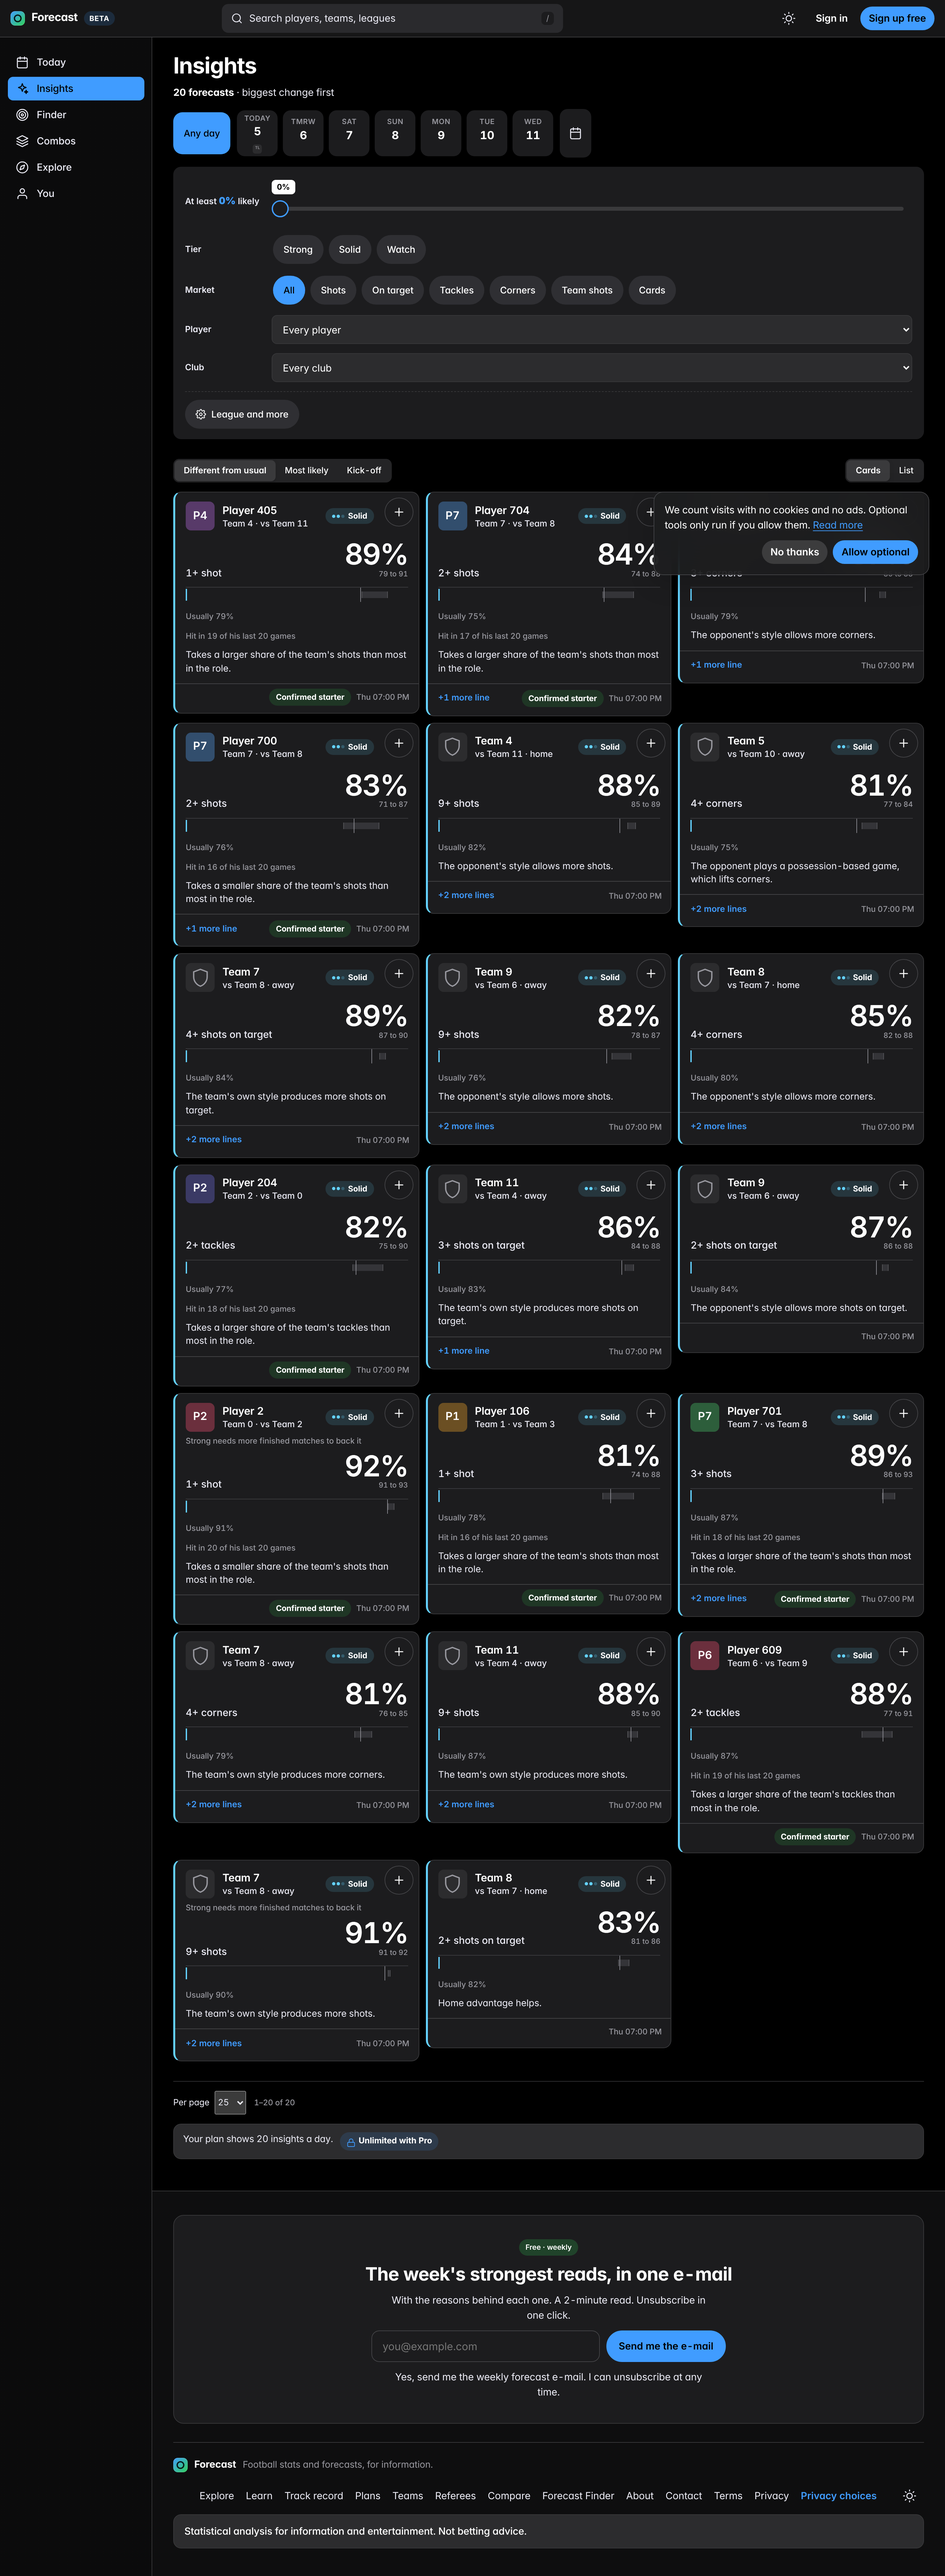
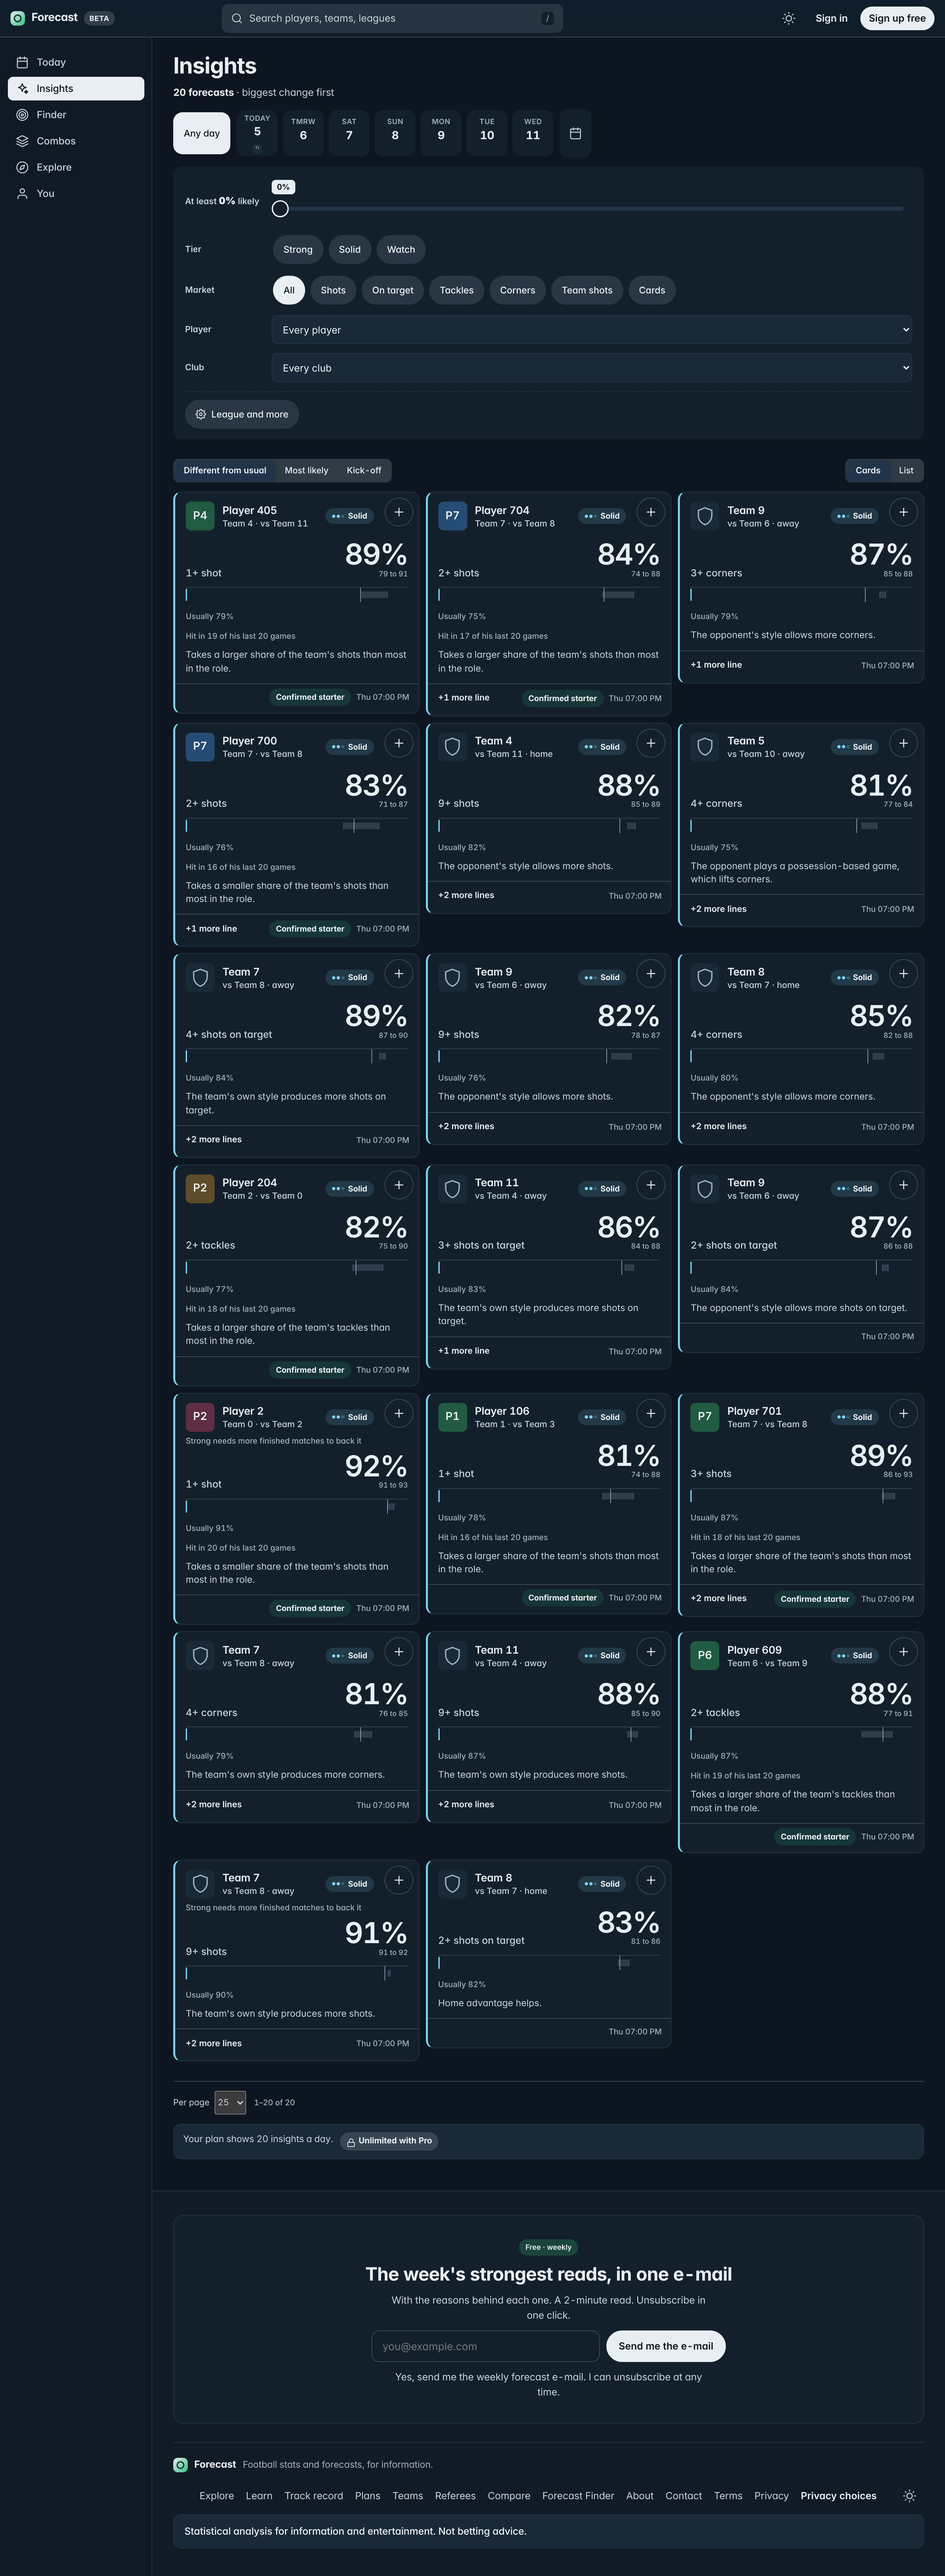
v2: the card's bar becomes the claim, not a meter
First look at the rendered feed, and the mark that matters was the one not working. It was a filled
likelihood meter, and a filled meter says "this number is big" -- the one conclusion a reader must
not draw, because a big number is exactly what a truism looks like. A near-certainty and a real
claim both drew an almost-full bar, so the mark that should have separated them was the mark hiding
the difference. It also bunched everything at the right of the axis, since nearly every shown line
sits above 75%.

It now reads as a measurement on a fixed 0-100 axis, so cards stay comparable to each other:
the band is the likely range, so being unsure has width; a segment runs from what the entity
usually does to what it does in this fixture, with its length the size of the claim and its colour
the direction; and a chalk tick marks the usual so the segment visibly starts somewhere. A card
whose segment is a stub is describing a normal game, which is now readable without the percentage.

Also captured here, because it is a finding rather than a fault: every card in the rendered feed
sits at 81 to 92 percent on markets like "1+ shot" and "9+ shots", which looks like the triviality
gate failing. It is not. Those leads carry spans of 0.07 to 0.10, above the 0.06 default, so by the
measured definition they are not trivial -- in this simulated league the spread of defences is wide
enough that even a 1+ shot rung moves eight points. docs/56 section 4.1 already measured this: 0.06
[…]

diff --git a/frontend/src/styles/v2.css b/frontend/src/styles/v2.css
@@ -145,36 +145,47 @@ h2, .k-sec, .td-sec-head h2, .ins h2, .mc-sec h2, .pr h2, .tm h2, .fg-head h3, .
 
 
 /* =============================================================== 4. THE EVIDENCE MARK
-   This is where the design spends its boldness, and it is the only place it does.
+   Where the design spends its boldness, and the only place it does.
 
-   `.k-fc-bar` was a likelihood meter: a filled bar on a track. A filled bar says "this number is
-   big", which is the one thing a reader must NOT conclude, because a big number is exactly what a
-   truism looks like. It now reads as a measurement on an axis:
+   `.k-fc-bar` was a filled likelihood meter. A filled bar says "this number is big", which is the
+   one conclusion a reader must not draw: a big number is exactly what a truism looks like. Both a
+   near-certainty and a real claim drew an almost-full bar, so the mark that should separate them
+   was the mark that hid the difference.
 
-       band  = the 10-90 range, so how sure we are has width
-       rule  = where this fixture's number sits
-       tick  = what this entity usually does
+   It now reads as a measurement on a fixed 0-100 axis, so cards stay comparable:
+     - the band is the likely range, so being unsure has width;
+     - the SEGMENT runs from what this entity usually does to what it does in this fixture. Its
+       length is the size of the claim and its colour is the direction;
+     - the tick is the usual, so the segment visibly starts somewhere.
 
-   A line far from its own usual tick is a claim. A line sitting on top of it is a description.
-   That comparison is the product's whole thesis (docs/50, docs/56) and it was previously only
-   available as a sentence in small grey text. */
+   A card whose segment is a stub is describing a normal game, and now you can see that from across
+   the room without reading the percentage. */
 .k-fc-bar {
-  position: relative; height: 22px; background: transparent;
-  border-radius: 0; border-top: 1px solid var(--v2-rule);
-  margin-top: 2px; overflow: visible;
+  position: relative; height: 26px; background: transparent; border-radius: 0; overflow: visible;
+  margin-top: 4px;
+  /* the axis itself: a chalk baseline, with the ends ticked so 0 and 100 are locatable */
+  border-bottom: 1px solid var(--v2-rule);
 }
+.k-fc-bar::before, .k-fc-bar::after {
+  content: ""; position: absolute; bottom: 0; width: 1px; height: 5px; background: var(--v2-rule);
+}
+.k-fc-bar::before { left: 0; }
+.k-fc-bar::after { right: 0; }
 .k-fc-bar .k-fc-band {
-  top: 6px; height: 10px; border-radius: 0;
-  background: var(--v2-band);
-  border-left: 1px solid var(--border-strong); border-right: 1px solid var(--border-strong);
+  position: absolute; top: 7px; height: 11px; border-radius: 0;
+  background: var(--v2-band); border: 0;
 }
+/* the claim */
 .k-fc-bar > b {
-  position: absolute; top: 2px; height: 18px; width: 0 !important;
-  border-right: 2px solid var(--tone, var(--text)); background: none; border-radius: 0;
+  position: absolute; top: 9px; height: 7px; border-radius: 0; background: var(--text3);
+  min-width: 2px;
 }
-/* What they usually do: a full-height chalk tick, so the gap between it and the rule IS the claim. */
+.k-fc-bar[data-dir="up"] > b { background: var(--up); }
+.k-fc-bar[data-dir="down"] > b { background: var(--down); }
+/* their usual: a full-height chalk tick, so the gap to the end of the segment IS the claim */
 .k-fc-bar .k-fc-usual {
-  top: 0; height: 22px; width: 1px; background: var(--text3); opacity: .9;
+  position: absolute; top: 2px; height: 22px; width: 1px; background: var(--text);
+  opacity: .75; border-radius: 0;
 }
 .lbar-track, .ln-mini i { background: var(--surface3); }
 

diff --git a/frontend/src/components/ui/ForecastCard.jsx b/frontend/src/components/ui/ForecastCard.jsx
@@ -70,7 +70,23 @@ export function ForecastCard({ f, teams, homeIid, showTime = true, testid, track
         </header>
         <div className="k-fc-line"><span className="k-fc-market">{f.market}</span><span className="k-fc-pwrap"><b className="k-fc-p" data-testid={`${id}-p`}>{shown}</b>{rng && <small className="k-fc-range" data-testid={`${id}-range`}>{rng}</small>}</span></div>
         {tk && tk.state !== "unknown" && <div className="lv-row"><Track t={tk} id={id} /></div>}
-        <span className="k-fc-bar" aria-hidden="true">{rng && <i className="k-fc-band" style={{ left: `${Math.round(f.lo * 100)}%`, width: `${Math.max(0, Math.round((f.hi - f.lo) * 100))}%` }} />}<b style={{ width: `${Math.round((f.p || 0) * 100)}%` }} />{f.p_usual != null && <i className="k-fc-usual" style={{ left: `${Math.round(f.p_usual * 100)}%` }} />}</span>
+        {/* v2 (docs/redesign/v2/PLAN.md): this was a filled meter, and a filled meter says "this number
+            is big" -- the one thing a reader must not conclude, because a big number is exactly what a
+            truism looks like. It now reads as a measurement on a 0-100 axis:
+              band     the likely range, so uncertainty has width;
+              segment  from what they USUALLY do to what they do in this fixture -- the length of that
+                       segment is the size of the claim, and its colour is the direction;
+              tick     their usual, kept visible so the segment has somewhere to start.
+            A card with almost no segment is describing a normal game. That is the product's whole
+            thesis (docs/50, docs/56) and it was previously only a sentence in small grey text. */}
+        <span className="k-fc-bar" aria-hidden="true"
+              data-dir={f.p_usual == null ? undefined : (f.p >= f.p_usual ? "up" : "down")}>
+          {rng && <i className="k-fc-band" style={{ left: `${Math.round(f.lo * 100)}%`, width: `${Math.max(0, Math.round((f.hi - f.lo) * 100))}%` }} />}
+          <b style={f.p_usual == null
+              ? { left: 0, width: `${Math.round((f.p || 0) * 100)}%` }
+              : { left: `${Math.round(Math.min(f.p, f.p_usual) * 100)}%`, width: `${Math.max(0.6, Math.abs((f.p - f.p_usual)) * 100)}%` }} />
+          {f.p_usual != null && <i className="k-fc-usual" style={{ left: `${Math.round(f.p_usual * 100)}%` }} />}
+        </span>
         {f.is_personal && f.expected_usual != null
           ? <small className="k-fc-vs" data-testid={`${id}-usual`}>
               {f.scope === "player" ? "His usual game is " : "They usually manage "}
